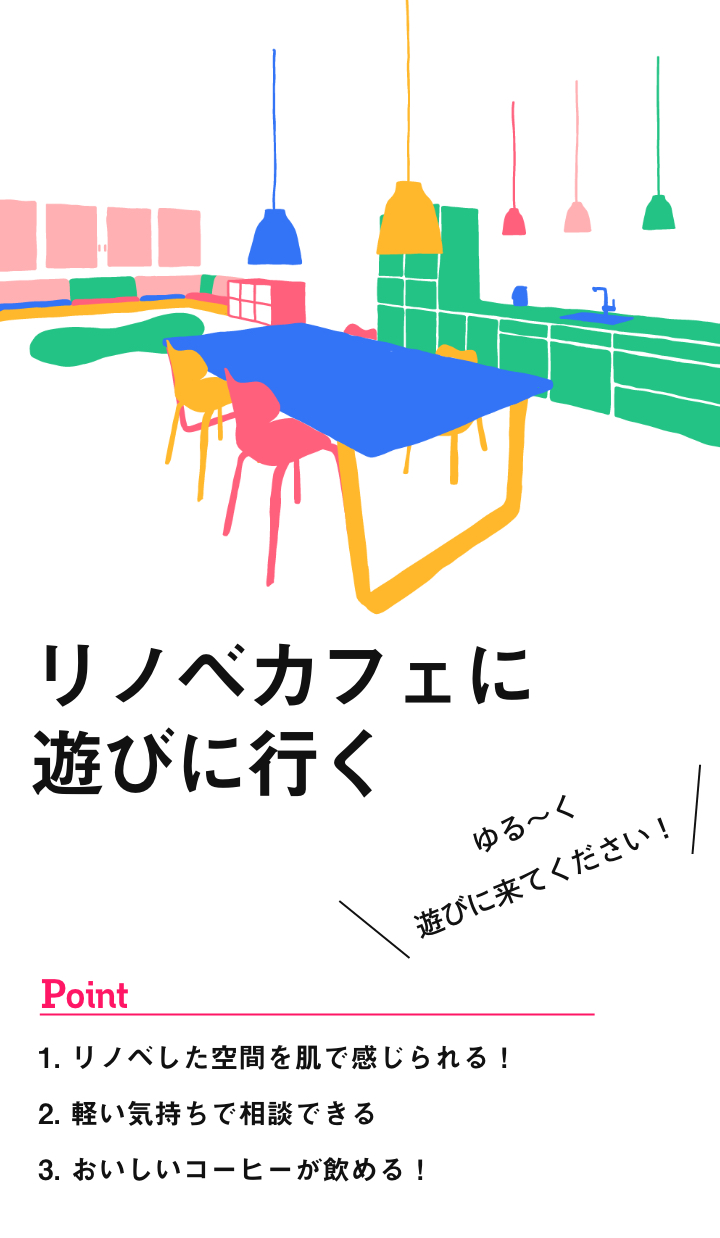
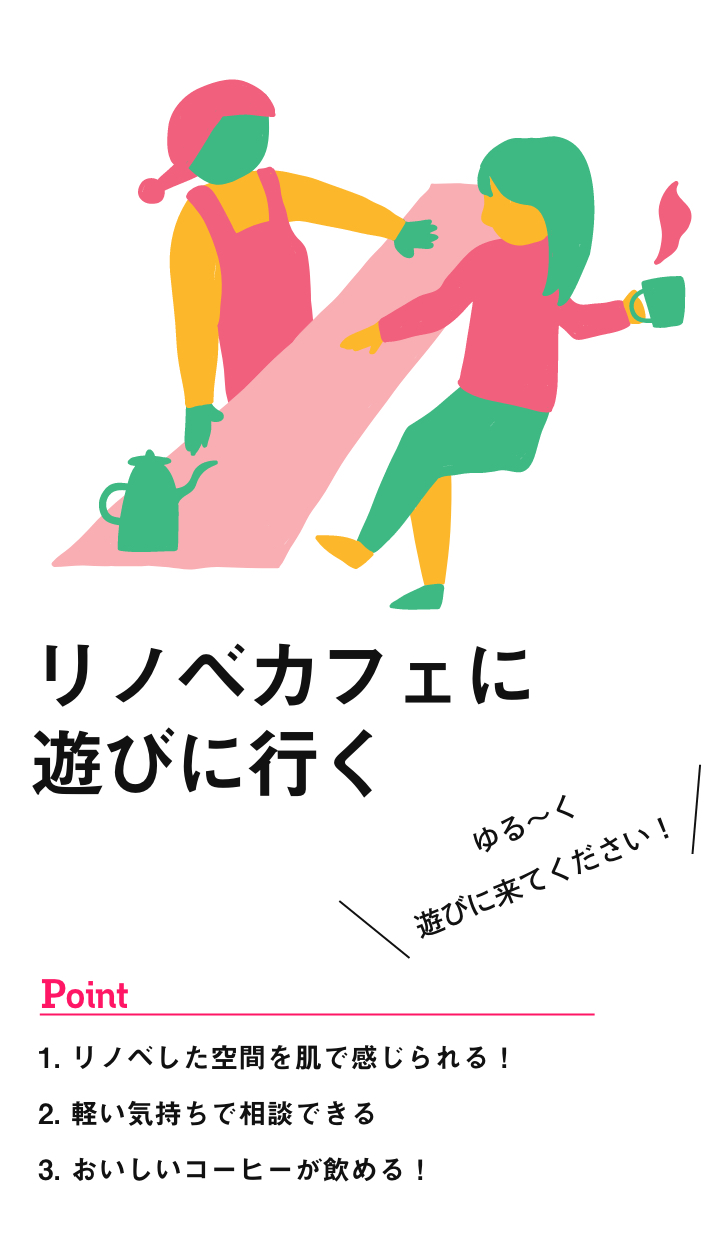
add ydn tag and modified cafe page

Changed region(s): [[0.0, 0.0, 1.0, 0.4911]]

diff --git a/resources/assets/scripts/transitions/onEveryPage.js b/resources/assets/scripts/transitions/onEveryPage.js
@@ -38,6 +38,35 @@ export default function (
     });
 
     fbq('track', 'ViewContent'); // eslint-disable-line no-undef
+
+    // Yahoo 
+    ytag({ // eslint-disable-line no-undef
+      "type": "yjad_retargeting",
+      "config": {
+        "yahoo_retargeting_id": "04VZZ12E3Y",
+        "yahoo_retargeting_label": "",
+        "yahoo_retargeting_page_type": "",
+        "yahoo_retargeting_items": [{
+            item_id: 'i1',
+            category_id: '',
+            price: '',
+            quantity: '',
+          },
+          {
+            item_id: 'i2',
+            category_id: '',
+            price: '',
+            quantity: '',
+          },
+          {
+            item_id: 'i3',
+            category_id: '',
+            price: '',
+            quantity: '',
+          },
+        ],
+      },
+    });
   }
 
 

diff --git a/resources/views/page-showroom.blade.php b/resources/views/page-showroom.blade.php
@@ -13,10 +13,9 @@
   <section class="events-inner">
     <div class="events-inner-contents regular-container">
       <div class="left wow fadeIn" data-wow-duration="2s">
-        <img src="@asset('images/events_showroom.jpg')" alt="">
+        <img src="@asset('images/cafe.jpg')" alt="">
       </div>
       <div class="right wow fadeInUp">
-        <p class="title">コーヒーを飲みながら<br />リノベのプロと気軽に相談</p>
         <div class="text-container">
           @while(have_posts()) @php(the_post())
           @php(the_content())

diff --git a/resources/views/partials/head.blade.php b/resources/views/partials/head.blade.php
@@ -55,4 +55,12 @@
   <noscript><img height="1" width="1" style="display:none"
       src="https://www.facebook.com/tr?id=412851169231161&ev=PageView&noscript=1" /></noscript>
   <!-- End Facebook Pixel Code -->
+  <!-- YDN -->
+  <script async src="https://s.yimg.jp/images/listing/tool/cv/ytag.js"></script>
+  <script>
+    window.yjDataLayer = window.yjDataLayer || [];
+    function ytag() { yjDataLayer.push(arguments); }
+  </script>
+  <!-- END YDN -->
+
 </head>
